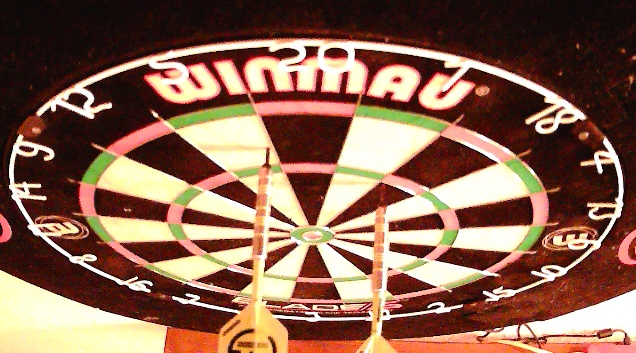
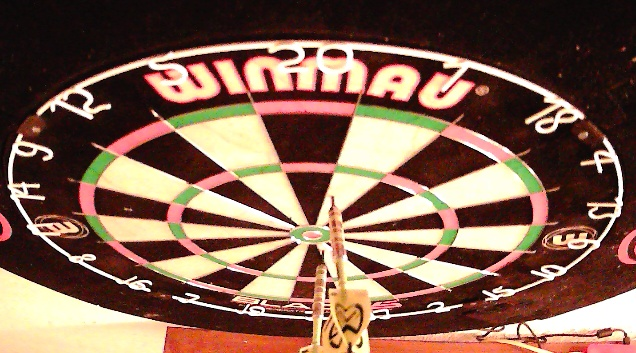
Issue17: Move recognized point to fitted line

diff --git a/src/dartThrowClass.py b/src/dartThrowClass.py
@@ -73,9 +73,9 @@ class dartThrow:
         # 3. Step Filter features by drawing line through them
         iteration_count = 1
         while True:
-            [vx, vy, x, y] = cv2.fitLine(features, cv2.DIST_HUBER, 0, 0.1, 0.1) #dist_L1 cost function is p(r)=r, dist_L2 cost function is p(r)=r^2
-            lefty = int((-x * vy / vx) + y)
-            righty = int(((width - x) * vy / vx) + y)
+            [vx, vy, x0, y0] = cv2.fitLine(features, cv2.DIST_HUBER, 0, 0.1, 0.1) #dist_L1 cost function is p(r)=r, dist_L2 cost function is p(r)=r^2
+            lefty = int((-x0 * vy / vx) + y0)
+            righty = int(((width - x0) * vy / vx) + y0)
 
             features_to_delete = []
             i = 0
@@ -112,7 +112,11 @@ class dartThrow:
             x,y = feature.ravel()
             p3 = np.array([x,y])
             distance = abs(np.cross(p2-p1,p3-p1)/np.linalg.norm(p2-p1))
-            if y < min_y and distance < 5: # threshold important
+            if y < min_y and distance < 5: # threshold impor((width - x0) * vy / vx) + y0tant
+
+                # correct x value of point to be on the line
+                x = int((y - y0) * vx / vy + x0)
+            
                 min_y = y
                 corr_x = x
         

diff --git a/src/cameraClass.py b/src/cameraClass.py
@@ -40,10 +40,10 @@ class Camera:
         print('Waiting for motion')
         
         #Parameters
-        t_rep = 0.015 # Take a picure every t_repeat seconds
+        t_rep = 0.025 # Take a picure every t_repeat seconds
         t_max = 0.1 # Maximum time the motion should take time - hereby we can distinguish between dart throw and human
         min_ratio = 0.0005 #Thresholds important - make accessible / dynamic - between 0 and 1
-        max_ratio = 0.02
+        max_ratio = 0.035
 
         # Get output paths
         config = configparser.ConfigParser()
